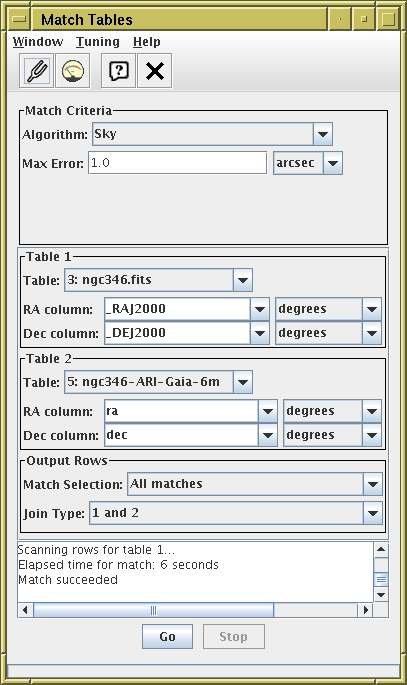
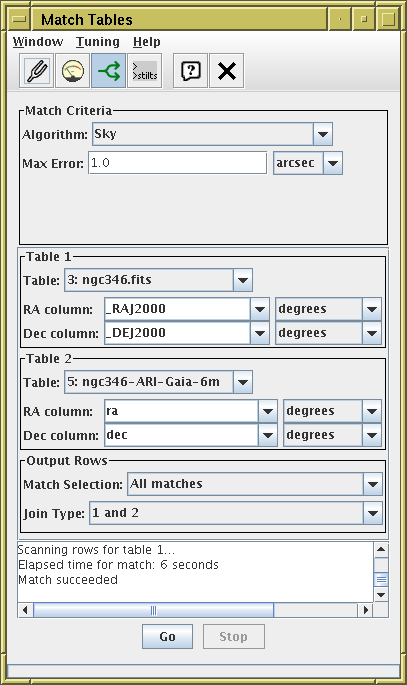
add topcat/stilts interoperability subsection

Changed region(s): [[0.2064, 0.0613, 0.6192, 0.1533]]

diff --git a/tctuto.tex b/tctuto.tex
@@ -52,7 +52,7 @@
 
 \begin{description}
   \item[TOPCAT:] \turl{http://www.starlink.ac.uk/topcat/}
-                 {\em (version 4.9-1 or later recommended)}
+                 {\em (version 4.10-2 or later recommended)}
   \item[STILTS:] \turl{http://www.starlink.ac.uk/stilts/}
                  {\em (version 3.4-1 or later recommended)}
   \item[Mailing list:] {\tt topcat-user@jiscmail.ac.uk}
@@ -810,7 +810,15 @@ on the command line, documented in Section 6.4: ``Output Modes'' of the manual.
       \end{verbatim}
       \postverb
       You can then examine this new file {\tt m4mini.fits}
-      by loading it into TOPCAT, or by using other stilts commands
+      by loading it into TOPCAT
+      (from the Load Window or by running ``{\tt topcat m4mini.fits}''
+      from the command line), or by using other STILTS commands, for instance:
+      \preverb
+      \begin{verbatim}
+      stilts tpipe in=m4mini.fits
+      stilts tpipe in=m4mini.fits omode=gui
+      \end{verbatim}
+      \postverb
 \item Calculate statistics using the {\tt stats} output mode:
       \preverb
       \begin{verbatim}
@@ -888,12 +896,45 @@ on the command line, documented in Section 6.4: ``Output Modes'' of the manual.
       Just add an output parameter like ``{\tt out=plot.png}'' or
       ``{\tt out=plot.pdf}'' to the above {\tt plot2sky} command
       to write static output files.
-\item Interoperate with TOPCAT:
-      STILTS plotting commands can get quite complicated.
-      If you have a plot in TOPCAT and want to reproduce it in STILTS,
-      look at the \ma{stilts.png}{STILTS} control,
-      which shows you the invocation needed to reproduce it.
 \end{enumerate}
+
+
+\subsection{Get help from TOPCAT}
+
+STILTS has a steeper learning curve than TOPCAT, and some of the commands,
+especially plotting commands, can get quite complicated.
+In many cases, TOPCAT can tell you the STILTS command that is equivalent
+to what you see in the GUI.
+Look out for the \ma{stilts.png}{STILTS} control in the control stack
+bottom left of the plot windows, and in the tool bars for
+crossmatch and VO-related windows.
+\paragap
+
+\begin{minipage}[t]{12cm}
+  \begin{enumerate}
+  \item Set up the Cone Search window like in Section~\ref{sec:m4-cone}.
+  \item Click the \ma{stilts.png}{STILTS} button in the toolbar.
+        This will pop up a window with the STILTS command that will
+        perform that cone search.
+  \item Note changing selections and controls in the Cone Search window
+        the settings of the displayed STILTS command.
+  \item Copy and paste the text into a terminal and execute it
+        (you can use the \mb{clipboard.png}{Edit}{Copy} button
+        or do it by hand)
+        and it should create a new file with the cone search result.
+  \item Click the \mb{stiltshelp.png}{Help}{Help for STILTS Command} button,
+        and it should open the relevant page from the manual
+        in your web browser.
+  \item Use the information to fiddle with the parameters of the command ---
+        change the sky position or search radius and execute it again.
+  \end{enumerate}
+\end{minipage}
+\begin{minipage}[t]{7cm}
+  \vspace*{1cm}
+  \winfig{width=7cm}{stilts_cone.png}
+\end{minipage}
+
+\subsection{... and more}
 
 There is {\em lots} more that {\tt tpipe}, and STILTS in general, can do.
 Explore the manual!
